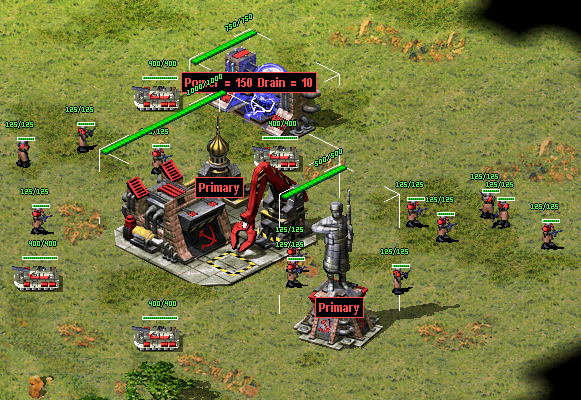
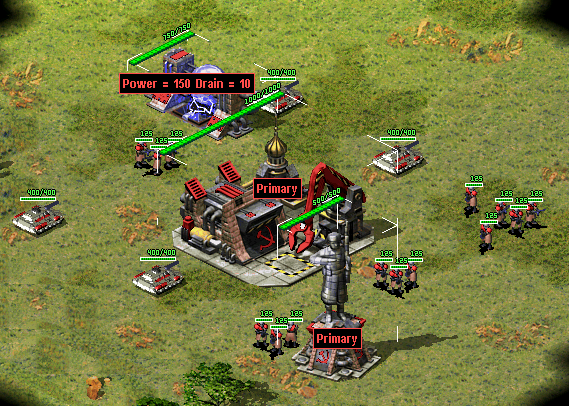
Change some defaults

diff --git a/src/New/Type/DigitalDisplayTypeClass.cpp b/src/New/Type/DigitalDisplayTypeClass.cpp
@@ -37,7 +37,7 @@ void DigitalDisplayTypeClass::LoadFromINI(CCINIClass* pINI)
 	this->InfoType.Read(exINI, section, "InfoType");
 }
 
-void DigitalDisplayTypeClass::Draw(Point2D posDraw, int iLength, int iCur, int iMax, bool isBuilding, bool hasShield)
+void DigitalDisplayTypeClass::Draw(Point2D posDraw, int iLength, int iCur, int iMax, bool isBuilding, bool isInfantry, bool hasShield)
 {
 	posDraw.X += Offset.Get().X;
 	posDraw.Y -= Offset.Get().Y;
@@ -64,12 +64,12 @@ void DigitalDisplayTypeClass::Draw(Point2D posDraw, int iLength, int iCur, int i
 	}
 
 	if (Shape != nullptr)
-		DisplayShape(posDraw, iLength, iCur, iMax, isBuilding);
+		DisplayShape(posDraw, iLength, iCur, iMax, isBuilding, isInfantry, hasShield);
 	else
-		DisplayText(posDraw, iLength, iCur, iMax, isBuilding);
+		DisplayText(posDraw, iLength, iCur, iMax, isBuilding, isInfantry, hasShield);
 }
 
-void DigitalDisplayTypeClass::DisplayText(Point2D& posDraw, int iLength, int iCur, int iMax, bool isBuilding)
+void DigitalDisplayTypeClass::DisplayText(Point2D& posDraw, int iLength, int iCur, int iMax, bool isBuilding, bool isInfantry, bool hasShield)
 {
 	wchar_t text[0x20];
 
@@ -78,7 +78,7 @@ void DigitalDisplayTypeClass::DisplayText(Point2D& posDraw, int iLength, int iCu
 		swprintf_s(text, L"%d", static_cast<int>((static_cast<double>(iCur) / iMax) * 100));
 		wcscat_s(text, L"%%");
 	}
-	else if (HideMaxValue.Get())
+	else if (HideMaxValue.Get(isInfantry))
 	{
 		swprintf_s(text, L"%d", iCur);
 	}
@@ -93,26 +93,25 @@ void DigitalDisplayTypeClass::DisplayText(Point2D& posDraw, int iLength, int iCu
 	DSurface::Composite->GetRect(&rect);
 	TextPrintType ePrintType;
 	const int iTextHeight = 12;
-	const int iPipHeight = 4;
-	const int iBuildingPipHeight = 8;
+	const int iPipHeight = hasShield ? 4 : 0;
 
 	if (AnchorType.Vertical == VerticalPosition::Top)
-		posDraw.Y -= iTextHeight + iPipHeight * 2; // upper of healthbar and shieldbar
+		posDraw.Y -= iTextHeight + iPipHeight; // upper of healthbar and shieldbar
 
-	ePrintType = (Align == TextAlign::None ? (isBuilding ? TextPrintType::Right : TextPrintType::Center) : static_cast<TextPrintType>(Align.Get()))
+	ePrintType = static_cast<TextPrintType>(Align.Get())
 		| TextPrintType::FullShadow
 		| (Text_Background ? TextPrintType::Background : TextPrintType::LASTPOINT);
 
 	DSurface::Composite->DrawTextA(text, &rect, &posDraw, color, 0, ePrintType);
 }
 
-void DigitalDisplayTypeClass::DisplayShape(Point2D& posDraw, int iLength, int iCur, int iMax, bool isBuilding)
+void DigitalDisplayTypeClass::DisplayShape(Point2D& posDraw, int iLength, int iCur, int iMax, bool isBuilding, bool isInfantry, bool hasShield)
 {
 	std::string sCur(std::move(Percentage ?
 		GeneralUtils::IntToDigits(static_cast<int>(static_cast<double>(iCur) / iMax * 100)) :
 		GeneralUtils::IntToDigits(iCur)
 	));
-	std::string sMax(!Percentage && !HideMaxValue ?
+	std::string sMax(!Percentage && !HideMaxValue.Get(isInfantry) ?
 		std::move(GeneralUtils::IntToDigits(iMax)) :
 		""
 	);
@@ -122,16 +121,15 @@ void DigitalDisplayTypeClass::DisplayShape(Point2D& posDraw, int iLength, int iC
 		(isBuilding ? Vector2D<int> { 4, -2 } : Vector2D<int> { 4, 0 }) // default
 	);
 	std::string text = sCur;
-	const int iPipHeight = 4;
-	const int iBuildingPipHeight = 8;
+	const int iPipHeight = hasShield ? 4 : 0;
 
 	if (Percentage)
 		text.push_back('%');
-	else if (!HideMaxValue)
+	else if (!HideMaxValue.Get(isInfantry))
 		text += '/' + sMax;
 
 	if (AnchorType.Vertical == VerticalPosition::Top)
-		posDraw.Y -= Shape->Height + iPipHeight * 2; // upper of healthbar and shieldbar
+		posDraw.Y -= Shape->Height + iPipHeight; // upper of healthbar and shieldbar
 
 	switch (Align)
 	{
@@ -148,15 +146,6 @@ void DigitalDisplayTypeClass::DisplayShape(Point2D& posDraw, int iLength, int iC
 	case TextAlign::Right:
 	{
 		posDraw.X -= vInterval.X;
-		break;
-	}
-	default:
-	{
-		if (!isBuilding)
-		{
-			posDraw.X -= text.length() * vInterval.X / 2;
-			posDraw.Y += text.length() * vInterval.Y / 2;
-		}
 		break;
 	}
 	}

diff --git a/src/New/Type/DigitalDisplayTypeClass.h b/src/New/Type/DigitalDisplayTypeClass.h
@@ -19,7 +19,7 @@ public:
 	CustomPalette Palette;
 	Nullable<Vector2D<int>> Shape_Spacing;
 	Valueable<bool> Percentage;
-	Valueable<bool> HideMaxValue;
+	Nullable<bool> HideMaxValue;
 	Valueable<bool> VisibleToHouses_Observer;
 	Valueable<AffectedHouse> VisibleToHouses;
 	Valueable<DisplayInfoType> InfoType;
@@ -29,14 +29,14 @@ public:
 		, Text_Background(false)
 		, Offset({ 0, 0 })
 		, Offset_ShieldDelta()
-		, Align(TextAlign::None)
-		, AnchorType(HorizontalPosition::Center, VerticalPosition::Top)
-		, AnchorType_Building(BuildingSelectBracketPosition::LeftTop)
+		, Align(TextAlign::Right)
+		, AnchorType(HorizontalPosition::Right, VerticalPosition::Top)
+		, AnchorType_Building(BuildingSelectBracketPosition::Top)
 		, Shape(nullptr)
 		, Palette()
 		, Shape_Spacing()
 		, Percentage(false)
-		, HideMaxValue(false)
+		, HideMaxValue()
 		, VisibleToHouses_Observer(true)
 		, VisibleToHouses(AffectedHouse::All)
 		, InfoType(DisplayInfoType::Health)
@@ -48,12 +48,12 @@ public:
 	virtual void LoadFromStream(PhobosStreamReader& Stm);
 	virtual void SaveToStream(PhobosStreamWriter& Stm);
 
-	void Draw(Point2D posDraw, int iLength, int iCur, int iMax, bool isBuilding, bool hasShield);
+	void Draw(Point2D posDraw, int iLength, int iCur, int iMax, bool isBuilding, bool isInfantry, bool hasShield);
 
 private:
 
-	void DisplayText(Point2D& posDraw, int iLength, int iCur, int iMax, bool isBuilding);
-	void DisplayShape(Point2D& posDraw, int iLength, int iCur, int iMax, bool isBuilding);
+	void DisplayText(Point2D& posDraw, int iLength, int iCur, int iMax, bool isBuilding, bool isInfantry, bool hasShield);
+	void DisplayShape(Point2D& posDraw, int iLength, int iCur, int iMax, bool isBuilding, bool isInfantry, bool hasShield);
 
 	template <typename T>
 	void Serialize(T& Stm);

diff --git a/src/Ext/Techno/Body.cpp b/src/Ext/Techno/Body.cpp
@@ -330,7 +330,7 @@ Point2D TechnoExt::GetFootSelectBracketPosition(TechnoClass* pThis, Anchor ancho
 
 	RectangleStruct rBracket =
 	{
-		posScreen.X - iLength + (iLength == 8),
+		posScreen.X - iLength + (iLength == 8) + 1,
 		posScreen.Y - 28 + (iLength == 8),
 		iLength * 2,
 		iLength * 3
@@ -455,6 +455,7 @@ void TechnoExt::ProcessDigitalDisplays(TechnoClass* pThis)
 			continue;
 
 		bool isBuilding = pThis->WhatAmI() == AbstractType::Building;
+		bool isInfantry = pThis->WhatAmI() == AbstractType::Infantry;
 		bool hasShield = pExt->Shield != nullptr && !pExt->Shield->IsBrokenAndNonRespawning();
 		Point2D posDraw = pThis->WhatAmI() == AbstractType::Building ?
 			GetBuildingSelectBracketPosition(pThis, pDisplayType->AnchorType_Building)
@@ -464,7 +465,7 @@ void TechnoExt::ProcessDigitalDisplays(TechnoClass* pThis)
 		if (pDisplayType->InfoType == DisplayInfoType::Shield)
 			posDraw.Y += pExt->Shield->GetType()->BracketDelta;
 
-		pDisplayType->Draw(posDraw, iLength, iCur, iMax, isBuilding, hasShield);
+		pDisplayType->Draw(posDraw, iLength, iCur, iMax, isBuilding, isInfantry, hasShield);
 	}
 }
 

diff --git a/docs/User-Interface.md b/docs/User-Interface.md
@@ -40,8 +40,6 @@ IngameScore.LoseTheme= ; Soundtrack theme ID
     - `Text.Color`, `Text.Color.ConditionYellow` and `Text.Color.ConditionRed` allow customization of the font color. `Text.Background=yes` will additionally draw a black rectangle background.
     - When using shapes, a custom palette can be specified with `Palette`. `Shape.Spacing` controls pixel buffer between characters.
     - Frames 0-9 will be used as digits when the owner's health bar is green, 10-19 when yellow, 20-29 when red. For `/` and `%` characters, frame numbers are 30-31, 32-33, 34-35, respectively.
-  - Default `Align` for texts is `right` for BuildingTypes, `center` for others.
-  - Default `Align` for shapes is `left` for BuildingTypes, `center` for others.
   - Default `Offset.ShieldDelta` for `InfoType=Shield` is `0,-10`, `0,0` for others.
   - Default `Shape.Spacing` for buildings is `4,-2`, `4,0` for others.
 
@@ -61,10 +59,10 @@ Aircraft.DefaultDigitalDisplayTypes=    ; list of DigitalDisplayTypes
 InfoType=Health                         ; Displayed value enumeration (health|shield|ammo|mindcontrol|spawns|passengers|tiberium|experience|occupants|gattlingstage)
 Offset=0,0                              ; integers - horizontal, vertical
 Offset.ShieldDelta=                     ; integers - horizontal, vertical
-Align=                                  ; Text alignment enumeration (left|right|center/centre)
-Anchor.Horizontal=Left                  ; Horizontal position enumeration (left|center/centre|right)
+Align=right                             ; Text alignment enumeration (left|right|center/centre)
+Anchor.Horizontal=right                 ; Horizontal position enumeration (left|center/centre|right)
 Anchor.Vertical=top                     ; Vertical position enumeration (top|center/centre|bottom)
-Anchor.Building=lefttop                 ; Hexagon vertex enumeration (top|lefttop|leftbottom|bottom|rightbottom|righttop)
+Anchor.Building=top                     ; Hexagon vertex enumeration (top|lefttop|leftbottom|bottom|rightbottom|righttop)
 Percentage=false                        ; boolean
 HideMaxValue=false                      ; boolean
 VisibleToHouses=owner                   ; Affected house enumeration (none|owner/self|allies/ally|team|enemies/enemy|all)
